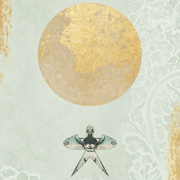
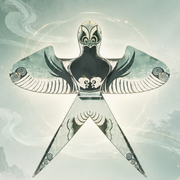
主屏幕图标换成卿卿给的沙燕风筝
- static/icon-source.jpg 是原图；tools/make_icons.py 生成四张图标：
  iPhone 和普通图标用整张图（系统自己切圆角），安卓 maskable 的燕子缩到八成，四周垫糊开的原图
- 图标网址带上内容指纹（?v=…），重新添加到主屏幕时 Safari 不会拿缓存里的旧图
- 开发说明写清：换图标要删掉主屏幕图标重新添加，删之前先同步、导出备份、记得暗号

Claude-Session: https://claude.ai/code/session_01Fh9gvVHt8ewQ6MSL3sDge8

diff --git a/index.html b/index.html
@@ -13,8 +13,8 @@
 <meta name="referrer" content="no-referrer">
 <title>开封府</title>
 <link rel="manifest" href="./manifest.webmanifest">
-<link rel="apple-touch-icon" href="./icons/apple-touch-icon.png">
-<link rel="icon" type="image/png" sizes="192x192" href="./icons/icon-192.png">
+<link rel="apple-touch-icon" href="./icons/apple-touch-icon.png?v=fff40402a0">
+<link rel="icon" type="image/png" sizes="192x192" href="./icons/icon-192.png?v=ba7c5817ef">
 <link rel="preload" as="image" href="./assets/splash.webp">
 <link rel="stylesheet" href="./assets/app-f98e73b1da.css">
 </head>

diff --git a/source/tools/make_icons.py b/source/tools/make_icons.py
@@ -1,0 +1,31 @@
+# 主屏幕图标：python3 tools/make_icons.py（在 source/ 里跑）
+# 原图是 static/icon-source.jpg（卿卿给的沙燕风筝，方图），生成 static/icons/ 里的四张。
+# iPhone 用整张图，系统自己切圆角；安卓的 maskable 只露中间一个圆，燕子缩到八成，四周用糊开的原图垫着。
+from PIL import Image, ImageDraw, ImageFilter
+
+SRC = "static/icon-source.jpg"
+OUT = "static/icons/"
+src = Image.open(SRC).convert("RGB")
+
+
+def full(size):
+    return src.resize((size, size), Image.LANCZOS)
+
+
+def padded(size, scale=0.8, blur=18):
+    bg = src.resize((size, size), Image.LANCZOS).filter(ImageFilter.GaussianBlur(blur))
+    inner = int(round(size * scale))
+    feather = max(4, int(inner * 0.06))
+    mask = Image.new("L", (inner, inner), 0)
+    ImageDraw.Draw(mask).rectangle([feather, feather, inner - feather, inner - feather], fill=255)
+    mask = mask.filter(ImageFilter.GaussianBlur(feather / 2))
+    off = (size - inner) // 2
+    bg.paste(src.resize((inner, inner), Image.LANCZOS), (off, off), mask)
+    return bg
+
+
+full(180).save(OUT + "apple-touch-icon.png", optimize=True)
+full(192).save(OUT + "icon-192.png", optimize=True)
+full(512).save(OUT + "icon-512.png", optimize=True)
+padded(512).save(OUT + "icon-maskable-512.png", optimize=True)
+print("图标生成好了")

diff --git a/source/开发说明.md b/source/开发说明.md
@@ -24,7 +24,8 @@
 | `source/src/probe.js` | 账户面板里的“量一量屏幕底下”：在她手机上量网页到底画得到哪儿 |
 | `source/src/store.js` | App 读写存档的统一入口 |
 | `source/src/config.js` | Supabase 网址和 publishable key（本来就公开） |
-| `source/static/` | 开屏图、燕子、聊天背景、主屏幕图标、表情包缩略图 |
+| `source/static/` | 开屏图、燕子、聊天背景、主屏幕图标（原图 `icon-source.jpg`）、表情包缩略图 |
+| `source/tools/make_icons.py` | 从 `static/icon-source.jpg` 生成主屏幕图标 |
 | `source/supabase/database.sql` | 库房建表和权限（在 Supabase 的 SQL Editor 里运行） |
 | `source/supabase/claude_function.ts` | 传话的小后端（Supabase Edge Function，名字叫 `claude`） |
 | `source/tests/` | 单元测试、假 Supabase、端到端测试 |
@@ -61,7 +62,11 @@ Anthropic 的 key：在 Claude Console 的 Settings → API keys → Create key 
 
 ## 要她重新添加到主屏幕的改动
 
-`index.html` 里 `apple-mobile-web-app-*` 开头的设置、主屏幕图标、App 名字：iOS 在添加到主屏幕时读，改了要删掉图标重新添加。删之前先确认账户面板里写着“都已同步”。
+`index.html` 里 `apple-mobile-web-app-*` 开头的设置、主屏幕图标、App 名字：iOS 在添加到主屏幕时读，改了要删掉图标重新添加。
+
+删图标会把这个主屏幕 App 在手机上的存档一起删掉（每个主屏幕 App 有自己的一份）。删之前：账户面板里要写着“都已同步”；最好再导出一份备份；她得记得邮箱、密码和暗号。重新添加以后登录、对暗号，云端的东西会全部回来。
+
+换图标：替换 `static/icon-source.jpg`，在 `source/` 里跑 `python3 tools/make_icons.py`，再打包。图标网址后面带着内容的指纹（`?v=…`），Safari 添加时不会拿缓存里的旧图。
 
 ## 几个约定
 
